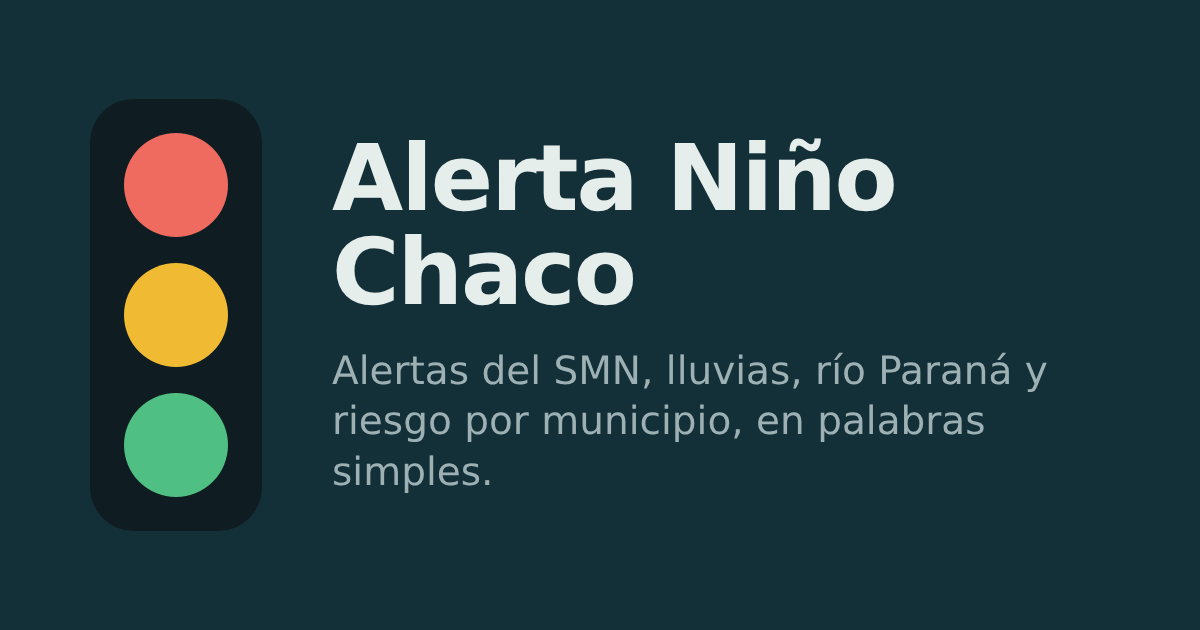
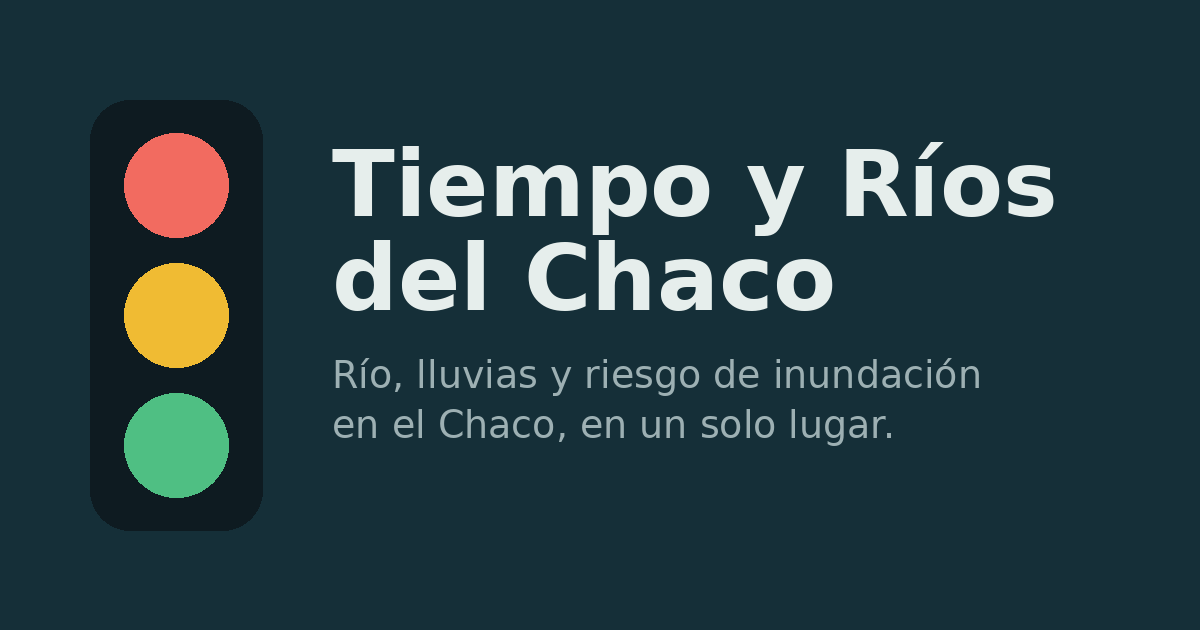
Mejoras de auditoría

Changed region(s): [[0.2775, 0.2111, 0.8942, 0.5127], [0.2775, 0.5429, 0.8942, 0.7238], [0.2775, 0.7238, 0.4008, 0.7841]]

diff --git a/index.html b/index.html
@@ -1,4 +1,4 @@
-<!doctype html><html lang="es"><head><meta charset="utf-8"><meta name="viewport" content="width=device-width,initial-scale=1"><title>Tiempo y Ríos del Chaco</title><meta name="description" content="Panel informativo sobre El Niño en el Chaco: alertas oficiales del SMN, lluvias, altura del río Paraná y riesgo por municipio."><meta property="og:type" content="website"><meta property="og:locale" content="es_AR"><meta property="og:title" content="Tiempo y Ríos del Chaco"><meta property="og:description" content="Alertas oficiales del SMN, lluvias, altura del río Paraná y riesgo por municipio del Chaco."><meta property="og:url" content="https://panel-alertas-chaco.netlify.app/"><meta property="og:image" content="https://panel-alertas-chaco.netlify.app/compartir.png"><meta property="og:image:width" content="1200"><meta property="og:image:height" content="630"><meta name="twitter:card" content="summary_large_image"><meta name="theme-color" content="#132f38"><link rel="icon" href="icono.svg" type="image/svg+xml"><style>body{margin:0}[hidden]{display:none!important}</style></head><body>
+<!doctype html><html lang="es"><head><meta charset="utf-8"><meta name="viewport" content="width=device-width,initial-scale=1"><title>Tiempo y Ríos del Chaco</title><meta name="description" content="Río, lluvias y riesgo de inundación en el Chaco: alertas oficiales del SMN, altura del río Paraná y riesgo por municipio."><meta property="og:type" content="website"><meta property="og:locale" content="es_AR"><meta property="og:title" content="Tiempo y Ríos del Chaco"><meta property="og:description" content="Alertas oficiales del SMN, lluvias, altura del río Paraná y riesgo por municipio del Chaco."><meta property="og:url" content="https://panel-alertas-chaco.netlify.app/"><meta property="og:image" content="https://panel-alertas-chaco.netlify.app/compartir.png?v=2"><meta property="og:image:width" content="1200"><meta property="og:image:height" content="630"><meta name="twitter:card" content="summary_large_image"><meta name="theme-color" content="#132f38"><link rel="icon" href="icono.svg" type="image/svg+xml"><style>body{margin:0}[hidden]{display:none!important}</style></head><body>
 <style>
 /* Layout: una sola columna para celular; primero el semáforo, después el detalle de cada dato. Sin fuentes externas para que cargue rápido. */
 :root{
@@ -223,8 +223,10 @@ const URLS=()=>({
  caudal:'https://flood-api.open-meteo.com/v1/flood?latitude=-27.48&longitude=-58.93&daily=river_discharge&past_days=30&forecast_days=30'
 });
 // Cada fuente se normaliza a la misma forma que la captura guardada.
+// Lluvia de un punto. Un día suelto sin dato cuenta como 0; si faltan más de 3, no se usa (no se puede decir que no llovió).
+const mmDe=x=>{const v=x.daily.precipitation_sum;if(!Array.isArray(v)||v.filter(y=>y==null).length>3)throw new Error('faltan datos');return v.map(y=>y==null?0:Number(y))};
 const NORM={
- lluvia:j=>{if(!Array.isArray(j)||j.length!==LOCS.length)throw new Error('formato');return {dias:j[0].daily.time,mm:j.map(x=>x.daily.precipitation_sum.map(v=>v==null?0:Number(v)))}},
+ lluvia:j=>{if(!Array.isArray(j)||j.length!==LOCS.length)throw new Error('formato');return {dias:j[0].daily.time,mm:j.map(mmDe)}},
  // Se ordena por fecha, se descartan valores imposibles y queda una lectura por día (la última de cada día).
  rio:j=>{const rows=(Array.isArray(j)?j:j.rows||[]).filter(r=>r.valor!=null&&r.timestart&&Number(r.valor)>-3&&Number(r.valor)<12)
      .sort((a,b)=>new Date(a.timestart)-new Date(b.timestart));
@@ -235,16 +237,18 @@ const NORM={
  caudal:j=>({dias:j.daily.time,q:j.daily.river_discharge.map(Number)})
 };
 // Forma esperada de cada dato, venga del servidor o de lo guardado en el dispositivo.
-const filas=(d,n)=>Array.isArray(d.dias)&&d.dias.length>0&&Array.isArray(d.mm)&&d.mm.length===n&&d.mm.every(x=>Array.isArray(x)&&x.length===d.dias.length);
+const filas=(d,n)=>Array.isArray(d.dias)&&d.dias.length>0&&d.dias.every(x=>/^\d{4}-\d\d-\d\d$/.test(x))&&Array.isArray(d.mm)&&d.mm.length===n&&d.mm.every(x=>Array.isArray(x)&&x.length===d.dias.length&&x.every(v=>typeof v==='number'));
+const esFecha=v=>v==null||!isNaN(new Date(v));
 const FORMA={
  lluvia:d=>filas(d,LOCS.length),
  municipios:d=>filas(d,GEO.mun.length),
- rio:d=>Array.isArray(d.obs)&&d.obs.length>0&&d.obs.every(p=>Array.isArray(p)&&typeof p[0]==='string'&&isFinite(p[1])),
- caudal:d=>Array.isArray(d.dias)&&Array.isArray(d.q)&&d.q.length===d.dias.length
+ rio:d=>Array.isArray(d.obs)&&d.obs.length>0&&d.obs.every(p=>Array.isArray(p)&&/^\d{4}-\d\d-\d\d$/.test(p[0])&&typeof p[1]==='number'&&isFinite(p[1]))&&esFecha(d.hora)&&esFecha(d.act),
+ caudal:d=>Array.isArray(d.dias)&&d.dias.length>0&&Array.isArray(d.q)&&d.q.length===d.dias.length
 };
 // Última consulta buena de cada fuente, guardada en este dispositivo. Reemplaza a la captura fija que traía la página.
 const MEM={
   leer(k){try{const j=JSON.parse(localStorage.getItem('anc:'+k));return j&&j.datos&&!isNaN(new Date(j.t))&&(!FORMA[k]||FORMA[k](j.datos))?j:null}catch(e){return null}},
+  borrar(k){try{localStorage.removeItem('anc:'+k)}catch(e){}},
   guardar(k,datos,t){try{localStorage.setItem('anc:'+k,JSON.stringify({t:new Date(t).toISOString(),datos}))}catch(e){}}
 };
 // Copia horaria del servidor (script de Google): trae las alertas del SMN y, si el script está al día, también lluvia, río, caudal y ONI.
@@ -265,13 +269,17 @@ function pedirServidor(){
 function delServidor(k,j){
   const d=j&&j.datos&&j.datos[k];
   if(!d||isNaN(new Date(d.t))||Date.now()-new Date(d.t)>2*36e5||!FORMA[k](d))return null;
+  // La lluvia del servidor tiene que estar armada hoy: pasada la medianoche, la de ayer cuenta mal los días.
+  if((k==='lluvia'||k==='municipios')&&d.dias.indexOf(hoy)!==7)return null;
   return d;
 }
 const D={};   // D[k]={datos,vivo,t,error}
 async function cargar(k){
   try{
     const sv=delServidor(k,await Promise.race([SRV_P,espera(4000)]));
-    D[k]=sv?{datos:sv,vivo:true,t:new Date(sv.t)}:{datos:NORM[k](await getJSON(URLS()[k])),vivo:true,t:new Date()};
+    const nuevo=sv?{datos:sv,vivo:true,t:new Date(sv.t)}:{datos:NORM[k](await getJSON(URLS()[k])),vivo:true,t:new Date()};
+    if(!FORMA[k](nuevo.datos))throw new Error('formato');
+    D[k]=nuevo;
     MEM.guardar(k,D[k].datos,D[k].t);
   }catch(e){
     if(D[k]&&D[k].vivo&&Date.now()-D[k].t<6*36e5)return;   // si falla una renovación, se conserva la última consulta buena (hasta 6 horas)
@@ -522,7 +530,7 @@ function pintarInfo(){
   if(k.tipo==='seg')h='<p><span class="estado">Localidad del semáforo</span><b>'+M.R[k.j].et+'</b></p><p>'+M.R[k.j].por+'</p>';
   else if(k.tipo==='gran')h='<p><span class="estado">Gran Resistencia</span><b>'+M.R[0].et+'</b></p><p>Forma parte del Gran Resistencia y comparte su semáforo. '+M.R[0].por+(k.smn?' '+pisoTxt(k.smn):'')+'</p>';
   else if(k.tipo==='est'){const s=M.est[i].ll;
-    h='<p><span class="estado">Estimación por lluvia</span><b>'+ETQ[k.c]+'</b></p><p>Llovieron '+nf(s.cayo)+' mm en 7 días y se esperan '+nf(s.viene)+' mm entre hoy y los 6 días siguientes'
+    h='<p><span class="estado">Estimación por lluvia</span><b>'+ETQ[k.c]+'</b></p><p>Llovieron '+nf(s.cayo)+' mm en 7 días y se esperan '+nf(s.viene)+' mm '+(M.estFin?'entre hoy y el '+fDia(M.estFin):'en los próximos días')
      +(s.max>=35?', con '+nf(s.max)+' mm en un solo día ('+fDia(s.maxDia)+')':'')+'.'+(k.smn?' '+pisoTxt(k.smn):'')+'</p><p class="meta">Calculado con la lluvia en el centro del municipio y la alerta del SMN. No mira ríos ni arroyos.</p>'}
   else if(k.tipo==='smn')h='<p><span class="estado">Alerta del SMN</span><b>'+ETQ[k.c]+'</b></p><p>No hay datos de lluvia de este municipio ahora. '+pisoTxt(k.smn)+'</p>';
   else if(M.todos==='cargando')h='<p class="nodisp">Consultando las lluvias de este municipio…</p>';
@@ -566,7 +574,8 @@ function pintarSMN(){
   GEO.mun.forEach((m,i)=>smnDe(i).forEach(a=>{const k=a.dia+'|'+a.ev+'|'+a.niv+'|'+a.fr.join(', ');if(!G.has(k))G.set(k,{a,mun:[]});G.get(k).mun.push(m[0])}));
   const fs=SMN.fechas.filter(d=>d>=hoy),rango='entre el '+fDia(fs[0])+' y el '+fDia(fs[fs.length-1]);
   let h;
-  if(!G.size)h=(Date.now()-new Date(SMN.capturado))/36e5>6
+  if(!G.size)h=SMN.leidas===0?'<p><b>No se pudo confirmar si hay alertas.</b> En la última lectura el canal del SMN no listó ninguna alerta para todo el país, y eso puede ser una falla del canal. <a href="https://www.smn.gob.ar/alertas" target="_blank" rel="noopener">Confirmalo en el SMN</a>.</p>'
+    :(Date.now()-new Date(SMN.capturado))/36e5>6
     ?'<p><b>No figuran alertas para el Chaco en el último informe leído, pero está sin renovar.</b> Puede haber alertas nuevas: <a href="https://www.smn.gob.ar/alertas" target="_blank" rel="noopener">confirmalo en el SMN</a>.</p>'
     :'<p><b>Sin alertas del SMN para el Chaco</b> '+rango+'.</p>';
   else h='<ul style="list-style:none;padding:0;margin:0;display:flex;flex-direction:column;gap:10px">'+[...G.values()].sort((x,y)=>x.a.dia<y.a.dia?-1:x.a.dia>y.a.dia?1:y.a.niv-x.a.niv).map(g=>{
@@ -579,12 +588,13 @@ function pintarSMN(){
 function smnInfo(i){
   if(!smnVigente())return '';
   const a=smnDe(i);
+  if(!a.length&&SMN.leidas===0)return '<p style="margin-top:8px"><span class="estado">SMN</span>No se pudo confirmar si hay alertas oficiales: <a href="https://www.smn.gob.ar/alertas" target="_blank" rel="noopener">consultá el SMN</a>.</p>';
   return '<p style="margin-top:8px"><span class="estado">SMN</span>'+(a.length?a.map(x=>smnPunto(x)+smnTxt(x)+' el '+fDiaLargo(x.dia)+(x.fr.length?' ('+x.fr.join(', ')+')':'')).join('. ')+'.':'Sin alertas oficiales en el informe del '+fFechaHora(new Date(SMN.emitido))+'.')+'</p>';
 }
 function cargarSMN(){
   SRV_P.then(j=>{
-    if(smnVale(j)){SMN=j;SMN_VIVO=true;MEM.guardar('smn',{emitido:j.emitido,capturado:j.capturado,fechas:j.fechas,areas:j.areas,alertas:j.alertas},new Date())}
-    SMN_LISTO=true;pintarSMN();pintarNino();if(D.lluvia)pintarSemaforo();
+    if(smnVale(j)){SMN=j;SMN_VIVO=true;MEM.guardar('smn',{emitido:j.emitido,capturado:j.capturado,fechas:j.fechas,areas:j.areas,alertas:j.alertas,leidas:j.leidas},new Date())}
+    SMN_LISTO=true;seguro(pintarSMN,['smn']);seguro(pintarNino);if(D.lluvia)seguro(pintarSemaforo,['smn','municipios']);
   });
 }
 function colorearMapa(R){
@@ -597,7 +607,7 @@ function colorearMapa(R){
   if(!M.todos)cargarTodos();   // la estimación de toda la provincia se pide sola la primera vez
 }
 // Una sola consulta trae la lluvia de todos los municipios (en el centro de cada uno).
-const estimar=d=>d.mm.forEach((mm,i)=>{const ll=sumarLluvia(d.dias,mm.map(v=>v==null?0:Number(v)),hoy);M.est[i]={ll,c:['verde','amarillo','rojo'][nivelLluvia(ll)]}});
+const estimar=d=>{M.estFin=d.dias[d.dias.length-1];d.mm.forEach((mm,i)=>{const ll=sumarLluvia(d.dias,mm.map(v=>v==null?0:Number(v)),hoy);M.est[i]={ll,c:['verde','amarillo','rojo'][nivelLluvia(ll)]}})};
 async function cargarTodos(){
   if(M.todos==='cargando')return;
   const b=$('mTodos'),e=$('mEstado');
@@ -607,7 +617,7 @@ async function cargarTodos(){
     if(!d){
       const j=await getJSON('https://api.open-meteo.com/v1/forecast?latitude='+GEO.mun.map(m=>m[2])+'&longitude='+GEO.mun.map(m=>m[3])+'&daily=precipitation_sum&past_days=7&forecast_days=7&timezone=America%2FArgentina%2FCordoba');
       if(!Array.isArray(j)||j.length!==GEO.mun.length)throw new Error('formato');
-      d={dias:j[0].daily.time,mm:j.map(x=>x.daily.precipitation_sum.map(v=>v==null?0:Number(v)))};
+      d={dias:j[0].daily.time,mm:j.map(mmDe)};
       if(!FORMA.municipios(d))throw new Error('formato');
     }
     estimar(d);MEM.guardar('municipios',{dias:d.dias,mm:d.mm},t);
@@ -618,7 +628,7 @@ async function cargarTodos(){
     e.innerHTML=M.tEst?'<span class="estado falla">Sin renovar</span>No se pudo consultar Open-Meteo ahora. El mapa muestra la lluvia consultada el '+fFechaHora(M.tEst)+'.'
       :'<span class="estado falla">No disponible</span>No se pudo consultar Open-Meteo ahora.';
   }
-  b.disabled=false;$('mCarga').hidden=true;colorearMapa();
+  b.disabled=false;$('mCarga').hidden=true;seguro(()=>colorearMapa(),['municipios','smn']);
 }
 let RIOG=null;
 // Lectura del gráfico con el dedo o el mouse: marca la lectura más cercana y la dice en texto.
@@ -667,7 +677,7 @@ function pintarRio(){
   const c=D.caudal&&D.caudal.datos;
   if(c){
     const ref0=D.caudal.vivo?hoy:diaAR(D.caudal.t),i0=c.dias.indexOf(ref0);
-    if(i0>=0){let im=i0;for(let i=i0;i<Math.min(c.dias.length,i0+15);i++)if(c.q[i]>c.q[im])im=i;
+    if(i0>=0&&c.q[i0]>0){let im=i0;for(let i=i0;i<Math.min(c.dias.length,i0+15);i++)if(c.q[i]>c.q[im])im=i;
       const pc=(c.q[im]/c.q[i0]-1)*100,red=v=>nf(Math.round(v/100)*100);
       caudal='<p><b>Qué puede pasar en dos semanas:</b> '+(pc>5?'el modelo europeo GloFAS calcula que el caudal del Paraná en esta zona subiría de '+red(c.q[i0])+' a unos '+red(c.q[im])+' m³ por segundo hacia el '+fDia(c.dias[im])+' (+'+nf(pc)+' %).'
         :'el modelo europeo GloFAS no calcula una suba importante del caudal en los próximos 15 días.')+' Es una estimación automática, no un pronóstico oficial.</p>'
@@ -725,9 +735,23 @@ function pintarBanner(){
   b.hidden=false;
   b.innerHTML='<b>'+(horas>36?'Atención: estos datos no son de hoy.':'Estás viendo datos guardados.')+'</b> No se pudieron consultar las fuentes ahora. Se muestran los de la última consulta que funcionó en este dispositivo, del '+fFechaHora(t)+(horas>36?'. Por ser viejos, no se usan para calcular el color del semáforo.':', y el semáforo está calculado con ellos.');
 }
-function pintar(){pintarSemaforo();if(D.rio)pintarRio();if(D.lluvia)pintarLluvia();pintarBanner()}
+// Cada sección se pinta por separado. Si un dato inesperado rompe una, las demás siguen;
+// lo guardado de esa fuente se borra para que no vuelva a fallar al recargar, y se pinta de nuevo sin ese dato.
+function seguro(f,ks){
+  try{f();return}catch(e){console.error(e)}
+  (ks||[]).forEach(k=>{MEM.borrar(k);if(D[k])D[k]={datos:null,error:true};
+    if(k==='municipios'){M.est={};M.tEst=0}
+    if(k==='smn'){SMN=SMN_VACIO;SMN_VIVO=false}});
+  try{f()}catch(e){console.error(e)}
+}
+function pintar(){
+  seguro(()=>{if(D.rio)pintarRio()},['rio','caudal']);
+  seguro(()=>{if(D.lluvia)pintarLluvia()},['lluvia']);
+  seguro(pintarSemaforo,['lluvia','rio','municipios','smn']);
+  seguro(pintarBanner);
+}
 
-pedirServidor();pintarNino();pintarSMN();cargarSMN();
+pedirServidor();seguro(pintarNino);seguro(pintarSMN,['smn']);cargarSMN();
 // Primero lo guardado en este dispositivo (si hay), para no esperar con la página vacía; después cada fuente por separado.
 ['lluvia','rio','caudal'].forEach(k=>{const g=MEM.leer(k);D[k]=g?{datos:g.datos,vivo:false,t:new Date(g.t)}:{datos:null}});
 (g=>{if(g&&Date.now()-new Date(g.t)<36*36e5){estimar(g.datos);M.tEst=new Date(g.t)}})(MEM.leer('municipios'));
@@ -738,7 +762,7 @@ let ULT=Date.now();
 function renovar(){
   if(document.hidden||!LISTO)return;
   ULT=Date.now();hoy=diaAR(new Date());
-  pedirServidor();pintarSMN();cargarSMN();
+  pedirServidor();seguro(pintarSMN,['smn']);cargarSMN();
   Promise.all(['lluvia','rio','caudal'].map(cargar)).then(pintar);
   cargarTodos();
 }

diff --git a/pruebas/reglas.test.js b/pruebas/reglas.test.js
@@ -93,6 +93,25 @@ prueba('El Niño: el dato del servidor no puede ser más viejo que el cargado a 
   assert.strictEqual(S('oniServidor()'), null);
 });
 
+prueba('datos raros: no pasan la revisión de forma y no traban la página', () => {
+  assert.ok(S(`FORMA.rio({obs:[['2026-10-06',4.27]],hora:'2026-10-06T12:00:00Z',act:null})`));
+  assert.strictEqual(S(`FORMA.rio({obs:[['2026-10-06',4.27]],hora:'basura'})`), false);
+  assert.strictEqual(S(`FORMA.rio({obs:[['ayer',4.27]]})`), false);
+  assert.strictEqual(S(`FORMA.rio({obs:[['2026-10-06','4']]})`), false);
+  // Una sección que falla no corta a las demás, y el dato que la rompió se descarta
+  S(`D.rio={datos:{obs:[['2026-10-06',4.27]]},vivo:true,t:new Date()};var pasos=0;seguro(()=>{pasos++;if(D.rio.datos)throw new Error('x')},['rio'])`);
+  assert.strictEqual(S('pasos'), 2); assert.strictEqual(S('D.rio.datos'), null);
+});
+
+prueba('lluvia: la copia del servidor tiene que ser de hoy, y no se inventa un cero si faltan datos', () => {
+  const dias = h => Array.from({ length: 14 }, (_, i) => S(`masDias('${h}',${i - 7})`));
+  const copia = h => S(`hoy='2026-10-07';delServidor('lluvia',{datos:{lluvia:{t:new Date().toISOString(),dias:${JSON.stringify(dias(h))},mm:LOCS.map(()=>Array(14).fill(1))}}})`);
+  assert.ok(copia('2026-10-07'));
+  assert.strictEqual(copia('2026-10-06'), null);
+  assert.strictEqual(S(`mmDe({daily:{precipitation_sum:[1,null,2]}})`)[1], 0);
+  assert.throws(() => S(`mmDe({daily:{precipitation_sum:[null,null,null,null,1]}})`));
+});
+
 /* ---------- script de Google ---------- */
 const gs = vm.createContext({ console, JSON, Math, Date, Number, String, Array, Error, RegExp, isFinite, isNaN });
 vm.runInContext(fs.readFileSync(path.join(raiz, 'apps-script', 'alertas-smn-apps-script.gs'), 'utf8'), gs);
@@ -152,6 +171,16 @@ prueba('script: si una fuente falla queda la copia anterior y las demás siguen'
   assert.strictEqual(d.lluvia.mm[0][0], 0);
   assert.strictEqual(d.rio.t, 'antes'); assert.ok(d.errores.rio); assert.ok(d.errores.oni); assert.strictEqual(d.oni, undefined);
   assert.strictEqual(d.caudal.t, '2026-10-07T12:00:00.000Z');
+});
+
+prueba('script: si falla el canal del SMN quedan las alertas anteriores y lo demás se renueva', () => {
+  const pedir = url => url.indexOf('flood-api') >= 0 ? { codigo: 200, texto: '{"daily":{"time":["2026-10-07"],"river_discharge":[17000]}}' } : { codigo: 500, texto: '' };
+  const antes = { capturado: 'antes', alertas: { 0: [] }, datos: { rio: { t: 'antes' } } };
+  const r = gs.juntar(antes, '2026-10-07', new Date('2026-10-07T12:00:00Z'), () => { throw new Error('canal caído'); }, pedir);
+  assert.ok(r.falla); assert.strictEqual(r.datos.capturado, 'antes');
+  assert.strictEqual(r.datos.datos.caudal.t, '2026-10-07T12:00:00.000Z'); assert.strictEqual(r.datos.datos.rio.t, 'antes');
+  const b = gs.juntar(antes, '2026-10-07', new Date('2026-10-07T12:00:00Z'), () => ({ capturado: 'ahora', leidas: 3 }), pedir);
+  assert.strictEqual(b.falla, null); assert.strictEqual(b.datos.capturado, 'ahora'); assert.ok(b.datos.datos.caudal);
 });
 
 console.log('\n' + ok + ' pruebas bien.');
